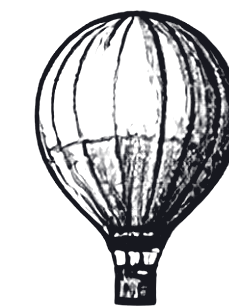
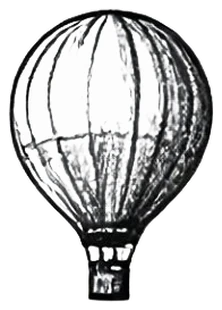
Smoke rises from the chimney; full balloon on the last panel
Claude-Session: https://claude.ai/code/session_01AFesTq58cik2Kzgpt88zTm

diff --git a/index.html b/index.html
@@ -156,7 +156,7 @@ button{cursor:pointer}
 .zep{animation:zep 20s ease-in-out infinite alternate}
 @keyframes zep{from{transform:translate(0,0)}to{transform:translate(-38%,10%)}}
 .puff{display:block;width:2.3%;aspect-ratio:1;opacity:0;transform-origin:50% 50%;animation:puff 4.8s linear infinite}.ov .puff svg{position:absolute;inset:0;width:100%;height:100%;overflow:visible}.puff .p2{opacity:0}.puff .p1{animation:boilA .5s steps(1) infinite}.puff .p2{animation:boilB .5s steps(1) infinite}@keyframes boilA{0%{opacity:1}50%{opacity:0}}@keyframes boilB{0%{opacity:0}50%{opacity:1}}
-@keyframes puff{0%{transform:translate(-35%,-30%) scale(.5) rotate(0deg);opacity:0;animation-timing-function:cubic-bezier(.35,.35,.6,1)}3%{opacity:1}35%{transform:translate(calc(-42% + var(--dx,0%)),-175%) scale(.8) rotate(-10deg);animation-timing-function:cubic-bezier(.4,0,.6,1)}72%{transform:translate(calc(-60% - var(--dx,0%)),-310%) scale(1) rotate(-18deg);animation-timing-function:cubic-bezier(.5,0,.9,.5)}96%{opacity:1}100%{transform:translate(-56%,-400%) scale(0) rotate(-30deg);opacity:0}}
+@keyframes puff{0%{transform:translate(-50%,-50%) scale(.3) rotate(0deg);opacity:0;animation-timing-function:cubic-bezier(.45,.05,.55,.95)}2%{opacity:1}32%{transform:translate(calc(-36% + var(--dx,0%)),-170%) scale(.75) rotate(-10deg);animation-timing-function:cubic-bezier(.4,0,.6,1)}70%{transform:translate(calc(-60% - var(--dx,0%)),-300%) scale(1) rotate(-18deg);animation-timing-function:cubic-bezier(.5,0,.9,.5)}96%{opacity:1}100%{transform:translate(-55%,-400%) scale(0) rotate(-30deg);opacity:0}}
 .balloon{animation:balloon 9s ease-in-out infinite alternate}
 @keyframes balloon{from{transform:translate(0,0) rotate(-1.5deg)}to{transform:translate(22%,-12%) rotate(2deg)}}
 .glide{animation:glide 16s ease-in-out infinite alternate}
@@ -1028,9 +1028,9 @@ const PANELS={
   d:{img:"p-d",ar:1.8534,ov:()=>
     `<img class="zep" src="${ART}zep1.webp" alt="" style="left:58.4%;top:18.5%;width:12.4%;animation-duration:17s">`
     +`<img class="zep" src="${ART}zep2.webp" alt="" style="left:75.2%;top:26%;width:13.8%;animation-duration:23s;animation-delay:-9s">`
-    +`<i class="puff" style="left:57.3%;top:68.2%;--dx:0%;animation-delay:-0s"><svg class="p1" viewBox="0 0 100 100" aria-hidden="true"><g fill="#1e140a"><circle cx="71.5" cy="53.5" r="17.7"/><circle cx="64.2" cy="62.4" r="14.1"/><circle cx="42.3" cy="63.2" r="16.7"/><circle cx="34.6" cy="58.4" r="13.9"/><circle cx="30.2" cy="42.5" r="16.8"/><circle cx="46.9" cy="36.3" r="15.7"/><circle cx="65.0" cy="39.6" r="16.7"/><circle cx="50.0" cy="50.0" r="22.0"/><circle cx="66.7" cy="25.6" r="3.2"/><circle cx="83.2" cy="56.2" r="5.2"/></g></svg><svg class="p2" viewBox="0 0 100 100" aria-hidden="true"><g fill="#1e140a"><circle cx="72.9" cy="51.8" r="19.2"/><circle cx="65.2" cy="61.3" r="13.9"/><circle cx="40.3" cy="61.6" r="17.2"/><circle cx="35.8" cy="57.1" r="14.4"/><circle cx="29.7" cy="42.7" r="17.9"/><circle cx="45.7" cy="34.8" r="15.5"/><circle cx="67.1" cy="39.2" r="17.9"/><circle cx="48.6" cy="51.1" r="23.6"/><circle cx="65.9" cy="23.8" r="3.2"/><circle cx="80.8" cy="54.1" r="5.2"/></g></svg></i><i class="puff" style="left:57.3%;top:68.2%;--dx:20%;animation-delay:-1.2s"><svg class="p1" viewBox="0 0 100 100" aria-hidden="true"><g fill="#1e140a"><circle cx="69.6" cy="48.0" r="15.1"/><circle cx="65.6" cy="62.5" r="15.9"/><circle cx="44.1" cy="63.6" r="18.2"/><circle cx="36.8" cy="56.8" r="16.7"/><circle cx="36.2" cy="40.8" r="15.0"/><circle cx="42.2" cy="36.3" r="14.2"/><circle cx="63.7" cy="37.5" r="17.1"/><circle cx="50.0" cy="50.0" r="22.0"/><circle cx="60.1" cy="23.3" r="3.2"/><circle cx="79.7" cy="36.3" r="5.0"/></g></svg><svg class="p2" viewBox="0 0 100 100" aria-hidden="true"><g fill="#1e140a"><circle cx="68.2" cy="48.5" r="13.9"/><circle cx="67.3" cy="61.1" r="15.8"/><circle cx="45.3" cy="65.4" r="18.5"/><circle cx="37.6" cy="57.0" r="17.9"/><circle cx="35.0" cy="41.6" r="15.3"/><circle cx="42.1" cy="36.0" r="12.8"/><circle cx="64.0" cy="37.2" r="17.5"/><circle cx="49.8" cy="51.9" r="22.8"/><circle cx="61.0" cy="21.6" r="3.2"/><circle cx="79.2" cy="39.0" r="5.0"/></g></svg></i><i class="puff" style="left:57.3%;top:68.2%;--dx:-16%;animation-delay:-2.4s"><svg class="p1" viewBox="0 0 100 100" aria-hidden="true"><g fill="#1e140a"><circle cx="72.2" cy="47.9" r="17.8"/><circle cx="58.8" cy="63.8" r="17.0"/><circle cx="41.1" cy="63.7" r="14.1"/><circle cx="33.3" cy="60.5" r="17.5"/><circle cx="33.3" cy="47.9" r="17.1"/><circle cx="51.7" cy="33.1" r="18.0"/><circle cx="58.9" cy="35.5" r="18.3"/><circle cx="50.0" cy="50.0" r="22.0"/><circle cx="47.3" cy="77.9" r="4.1"/><circle cx="18.6" cy="60.8" r="3.3"/></g></svg><svg class="p2" viewBox="0 0 100 100" aria-hidden="true"><g fill="#1e140a"><circle cx="71.9" cy="48.2" r="18.0"/><circle cx="59.1" cy="65.1" r="18.6"/><circle cx="41.9" cy="65.0" r="14.3"/><circle cx="33.2" cy="62.0" r="19.2"/><circle cx="33.6" cy="48.5" r="15.6"/><circle cx="53.3" cy="33.7" r="18.5"/><circle cx="57.4" cy="35.8" r="18.7"/><circle cx="48.5" cy="49.6" r="23.1"/><circle cx="49.0" cy="79.2" r="4.1"/><circle cx="19.7" cy="63.5" r="3.3"/></g></svg></i><i class="puff" style="left:57.3%;top:68.2%;--dx:9%;animation-delay:-3.6s"><svg class="p1" style="transform:scaleX(-1)" viewBox="0 0 100 100" aria-hidden="true"><g fill="#1e140a"><circle cx="71.5" cy="53.5" r="17.7"/><circle cx="64.2" cy="62.4" r="14.1"/><circle cx="42.3" cy="63.2" r="16.7"/><circle cx="34.6" cy="58.4" r="13.9"/><circle cx="30.2" cy="42.5" r="16.8"/><circle cx="46.9" cy="36.3" r="15.7"/><circle cx="65.0" cy="39.6" r="16.7"/><circle cx="50.0" cy="50.0" r="22.0"/><circle cx="66.7" cy="25.6" r="3.2"/><circle cx="83.2" cy="56.2" r="5.2"/></g></svg><svg class="p2" style="transform:scaleX(-1)" viewBox="0 0 100 100" aria-hidden="true"><g fill="#1e140a"><circle cx="72.9" cy="51.8" r="19.2"/><circle cx="65.2" cy="61.3" r="13.9"/><circle cx="40.3" cy="61.6" r="17.2"/><circle cx="35.8" cy="57.1" r="14.4"/><circle cx="29.7" cy="42.7" r="17.9"/><circle cx="45.7" cy="34.8" r="15.5"/><circle cx="67.1" cy="39.2" r="17.9"/><circle cx="48.6" cy="51.1" r="23.6"/><circle cx="65.9" cy="23.8" r="3.2"/><circle cx="80.8" cy="54.1" r="5.2"/></g></svg></i>`},
+    +`<i class="puff" style="left:56.3%;top:69.2%;--dx:0%;animation-delay:-0.0s"><svg class="p1" viewBox="0 0 100 100" aria-hidden="true"><g fill="#1e140a"><circle cx="71.5" cy="53.5" r="17.7"/><circle cx="64.2" cy="62.4" r="14.1"/><circle cx="42.3" cy="63.2" r="16.7"/><circle cx="34.6" cy="58.4" r="13.9"/><circle cx="30.2" cy="42.5" r="16.8"/><circle cx="46.9" cy="36.3" r="15.7"/><circle cx="65.0" cy="39.6" r="16.7"/><circle cx="50.0" cy="50.0" r="22.0"/><circle cx="66.7" cy="25.6" r="3.2"/><circle cx="83.2" cy="56.2" r="5.2"/></g></svg><svg class="p2" viewBox="0 0 100 100" aria-hidden="true"><g fill="#1e140a"><circle cx="72.9" cy="51.8" r="19.2"/><circle cx="65.2" cy="61.3" r="13.9"/><circle cx="40.3" cy="61.6" r="17.2"/><circle cx="35.8" cy="57.1" r="14.4"/><circle cx="29.7" cy="42.7" r="17.9"/><circle cx="45.7" cy="34.8" r="15.5"/><circle cx="67.1" cy="39.2" r="17.9"/><circle cx="48.6" cy="51.1" r="23.6"/><circle cx="65.9" cy="23.8" r="3.2"/><circle cx="80.8" cy="54.1" r="5.2"/></g></svg></i><i class="puff" style="left:56.3%;top:69.2%;--dx:20%;animation-delay:-0.8s"><svg class="p1" viewBox="0 0 100 100" aria-hidden="true"><g fill="#1e140a"><circle cx="69.6" cy="48.0" r="15.1"/><circle cx="65.6" cy="62.5" r="15.9"/><circle cx="44.1" cy="63.6" r="18.2"/><circle cx="36.8" cy="56.8" r="16.7"/><circle cx="36.2" cy="40.8" r="15.0"/><circle cx="42.2" cy="36.3" r="14.2"/><circle cx="63.7" cy="37.5" r="17.1"/><circle cx="50.0" cy="50.0" r="22.0"/><circle cx="60.1" cy="23.3" r="3.2"/><circle cx="79.7" cy="36.3" r="5.0"/></g></svg><svg class="p2" viewBox="0 0 100 100" aria-hidden="true"><g fill="#1e140a"><circle cx="68.2" cy="48.5" r="13.9"/><circle cx="67.3" cy="61.1" r="15.8"/><circle cx="45.3" cy="65.4" r="18.5"/><circle cx="37.6" cy="57.0" r="17.9"/><circle cx="35.0" cy="41.6" r="15.3"/><circle cx="42.1" cy="36.0" r="12.8"/><circle cx="64.0" cy="37.2" r="17.5"/><circle cx="49.8" cy="51.9" r="22.8"/><circle cx="61.0" cy="21.6" r="3.2"/><circle cx="79.2" cy="39.0" r="5.0"/></g></svg></i><i class="puff" style="left:56.3%;top:69.2%;--dx:-16%;animation-delay:-1.6s"><svg class="p1" viewBox="0 0 100 100" aria-hidden="true"><g fill="#1e140a"><circle cx="72.2" cy="47.9" r="17.8"/><circle cx="58.8" cy="63.8" r="17.0"/><circle cx="41.1" cy="63.7" r="14.1"/><circle cx="33.3" cy="60.5" r="17.5"/><circle cx="33.3" cy="47.9" r="17.1"/><circle cx="51.7" cy="33.1" r="18.0"/><circle cx="58.9" cy="35.5" r="18.3"/><circle cx="50.0" cy="50.0" r="22.0"/><circle cx="47.3" cy="77.9" r="4.1"/><circle cx="18.6" cy="60.8" r="3.3"/></g></svg><svg class="p2" viewBox="0 0 100 100" aria-hidden="true"><g fill="#1e140a"><circle cx="71.9" cy="48.2" r="18.0"/><circle cx="59.1" cy="65.1" r="18.6"/><circle cx="41.9" cy="65.0" r="14.3"/><circle cx="33.2" cy="62.0" r="19.2"/><circle cx="33.6" cy="48.5" r="15.6"/><circle cx="53.3" cy="33.7" r="18.5"/><circle cx="57.4" cy="35.8" r="18.7"/><circle cx="48.5" cy="49.6" r="23.1"/><circle cx="49.0" cy="79.2" r="4.1"/><circle cx="19.7" cy="63.5" r="3.3"/></g></svg></i><i class="puff" style="left:56.3%;top:69.2%;--dx:9%;animation-delay:-2.4s"><svg class="p1" style="transform:scaleX(-1)" viewBox="0 0 100 100" aria-hidden="true"><g fill="#1e140a"><circle cx="71.5" cy="53.5" r="17.7"/><circle cx="64.2" cy="62.4" r="14.1"/><circle cx="42.3" cy="63.2" r="16.7"/><circle cx="34.6" cy="58.4" r="13.9"/><circle cx="30.2" cy="42.5" r="16.8"/><circle cx="46.9" cy="36.3" r="15.7"/><circle cx="65.0" cy="39.6" r="16.7"/><circle cx="50.0" cy="50.0" r="22.0"/><circle cx="66.7" cy="25.6" r="3.2"/><circle cx="83.2" cy="56.2" r="5.2"/></g></svg><svg class="p2" style="transform:scaleX(-1)" viewBox="0 0 100 100" aria-hidden="true"><g fill="#1e140a"><circle cx="72.9" cy="51.8" r="19.2"/><circle cx="65.2" cy="61.3" r="13.9"/><circle cx="40.3" cy="61.6" r="17.2"/><circle cx="35.8" cy="57.1" r="14.4"/><circle cx="29.7" cy="42.7" r="17.9"/><circle cx="45.7" cy="34.8" r="15.5"/><circle cx="67.1" cy="39.2" r="17.9"/><circle cx="48.6" cy="51.1" r="23.6"/><circle cx="65.9" cy="23.8" r="3.2"/><circle cx="80.8" cy="54.1" r="5.2"/></g></svg></i><i class="puff" style="left:56.3%;top:69.2%;--dx:-8%;animation-delay:-3.2s"><svg class="p1" style="transform:scaleX(-1)" viewBox="0 0 100 100" aria-hidden="true"><g fill="#1e140a"><circle cx="69.6" cy="48.0" r="15.1"/><circle cx="65.6" cy="62.5" r="15.9"/><circle cx="44.1" cy="63.6" r="18.2"/><circle cx="36.8" cy="56.8" r="16.7"/><circle cx="36.2" cy="40.8" r="15.0"/><circle cx="42.2" cy="36.3" r="14.2"/><circle cx="63.7" cy="37.5" r="17.1"/><circle cx="50.0" cy="50.0" r="22.0"/><circle cx="60.1" cy="23.3" r="3.2"/><circle cx="79.7" cy="36.3" r="5.0"/></g></svg><svg class="p2" style="transform:scaleX(-1)" viewBox="0 0 100 100" aria-hidden="true"><g fill="#1e140a"><circle cx="68.2" cy="48.5" r="13.9"/><circle cx="67.3" cy="61.1" r="15.8"/><circle cx="45.3" cy="65.4" r="18.5"/><circle cx="37.6" cy="57.0" r="17.9"/><circle cx="35.0" cy="41.6" r="15.3"/><circle cx="42.1" cy="36.0" r="12.8"/><circle cx="64.0" cy="37.2" r="17.5"/><circle cx="49.8" cy="51.9" r="22.8"/><circle cx="61.0" cy="21.6" r="3.2"/><circle cx="79.2" cy="39.0" r="5.0"/></g></svg></i><i class="puff" style="left:56.3%;top:69.2%;--dx:14%;animation-delay:-4.0s"><svg class="p1" style="transform:scaleX(-1)" viewBox="0 0 100 100" aria-hidden="true"><g fill="#1e140a"><circle cx="72.2" cy="47.9" r="17.8"/><circle cx="58.8" cy="63.8" r="17.0"/><circle cx="41.1" cy="63.7" r="14.1"/><circle cx="33.3" cy="60.5" r="17.5"/><circle cx="33.3" cy="47.9" r="17.1"/><circle cx="51.7" cy="33.1" r="18.0"/><circle cx="58.9" cy="35.5" r="18.3"/><circle cx="50.0" cy="50.0" r="22.0"/><circle cx="47.3" cy="77.9" r="4.1"/><circle cx="18.6" cy="60.8" r="3.3"/></g></svg><svg class="p2" style="transform:scaleX(-1)" viewBox="0 0 100 100" aria-hidden="true"><g fill="#1e140a"><circle cx="71.9" cy="48.2" r="18.0"/><circle cx="59.1" cy="65.1" r="18.6"/><circle cx="41.9" cy="65.0" r="14.3"/><circle cx="33.2" cy="62.0" r="19.2"/><circle cx="33.6" cy="48.5" r="15.6"/><circle cx="53.3" cy="33.7" r="18.5"/><circle cx="57.4" cy="35.8" r="18.7"/><circle cx="48.5" cy="49.6" r="23.1"/><circle cx="49.0" cy="79.2" r="4.1"/><circle cx="19.7" cy="63.5" r="3.3"/></g></svg></i>`},
   g:{img:"p-g",ar:1.7809,ov:()=>
-    `<img class="balloon" src="${ART}balloon.webp" alt="" style="left:40.6%;top:12%;width:9.1%">`
+    `<img class="balloon" src="${ART}balloon.webp" alt="" style="left:41.7%;top:12%;width:8.8%">`
     +`<img class="glide" src="${ART}birds.webp" alt="" style="left:22.3%;top:53.8%;width:17.7%">`}
 };
 
